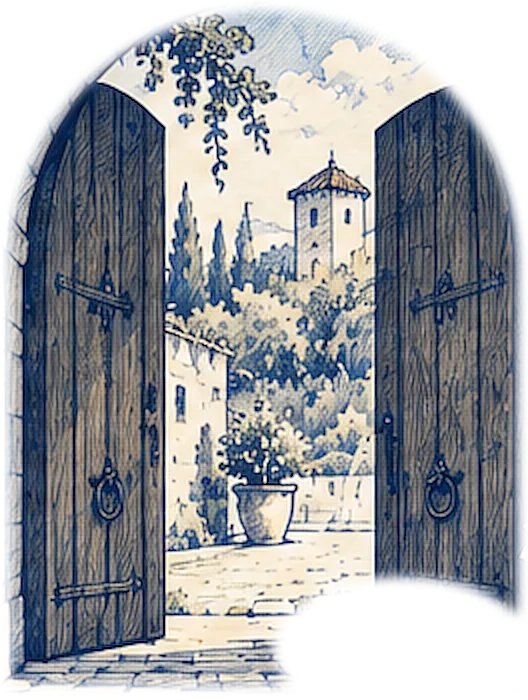
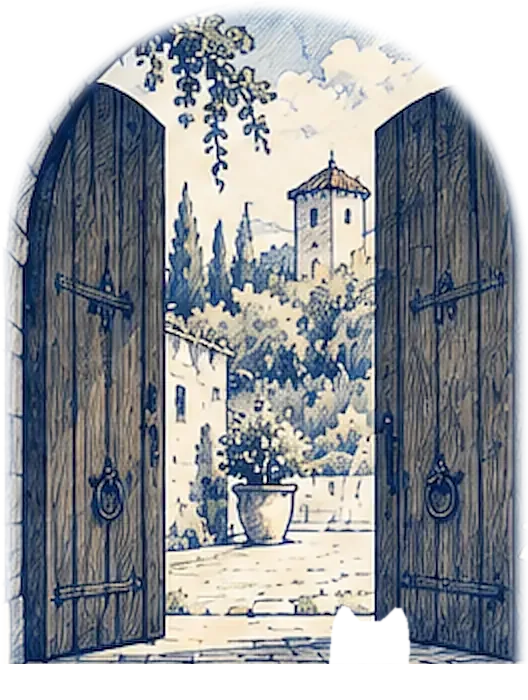
fix(design): open the founding gate around its cat, not around a patch of door

Changed region(s): [[0.0, 0.81, 1.0, 0.99], [0.4848, 0.66, 0.5152, 0.69]]

diff --git a/design/gate.py b/design/gate.py
@@ -1,0 +1,34 @@
+# The open gate of the founding page (setup-gate-open.webp, over scene-setup at 424,440, 2×): the
+# doorway of the sign-in scene with its gate open, laid over the doorway of the founding scene. Only
+# the doors change. The frame ends above the bottom of the doors, so the floor stays of the
+# founding scene, and it is transparent exactly over the head of the founding cat with its light
+# outline, so the cat stays and no piece of the closed door shows beside it.
+# The doorway itself is the alpha of the frame as it was cut in M10: below the row REF its sides
+# are straight, so that row is carried down where the cat was cut out before. Running it again
+# gives the same frame.
+# usage: gate.py <static img dir>  (reads login-desktop-v2@2x.webp, rewrites setup-gate-open.webp)
+import sys
+import numpy as np
+from PIL import Image, ImageDraw, ImageFilter
+
+img = sys.argv[1]
+X, Y = 424, 440                  # the frame on the 1x scenes
+REF = 700                        # a row of the doorway above the cat (1x)
+DOORS_END = 772                  # the first row of the dark line under the doors (1x)
+# the head of the founding cat with its light outline (1x, measured on scene-setup.png)
+CAT = [(588.5, 772), (589, 765), (589.5, 758), (590.5, 751), (592.5, 746), (595, 742.5), (598, 743.5), (601.5, 748),
+       (604, 750.5), (614, 750.5), (618, 747), (621.5, 743.5), (624.5, 744), (627, 749), (628, 756), (628.5, 763), (628, 772)]
+
+frame = Image.open(f'{img}/setup-gate-open.webp').convert('RGBA')
+W, H = frame.size
+alpha = np.asarray(frame)[..., 3].astype(np.float32)
+ref = 2 * (REF - Y)
+alpha[ref:] = alpha[ref]
+alpha[2 * (DOORS_END - Y):] = 0
+cut = Image.new('L', (W, H), 0)
+ImageDraw.Draw(cut).polygon([(2 * (x - X), 2 * (y - Y)) for x, y in CAT], 255)
+alpha *= 1 - np.asarray(cut.filter(ImageFilter.GaussianBlur(0.8))).astype(np.float32) / 255
+doors = np.asarray(Image.open(f'{img}/login-desktop-v2@2x.webp').convert('RGB'))[2 * Y:2 * Y + H, 2 * X:2 * X + W]
+Image.fromarray(np.dstack([doors, alpha.round().astype(np.uint8)]), 'RGBA').save(
+    f'{img}/setup-gate-open.webp', method=6, quality=82, alpha_quality=100)
+print('setup-gate-open.webp', W, H)
